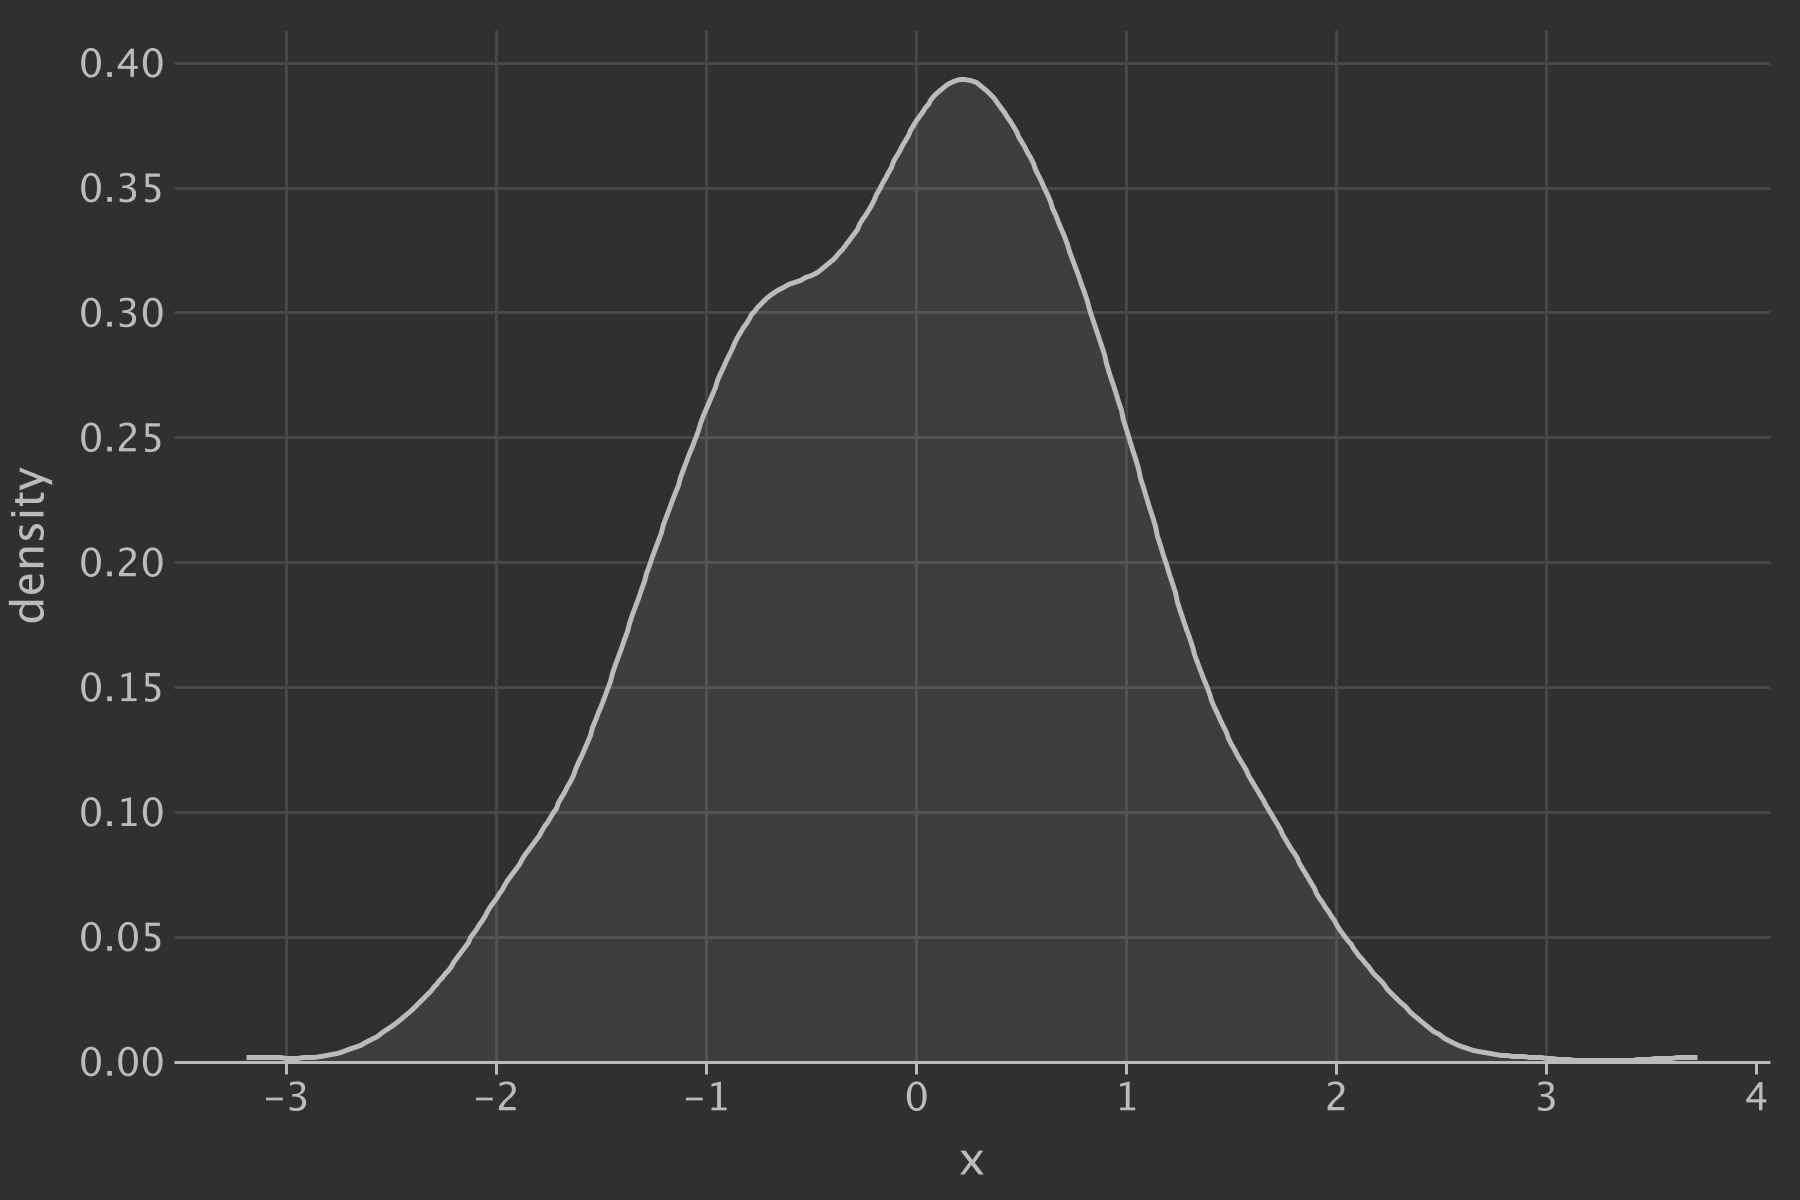
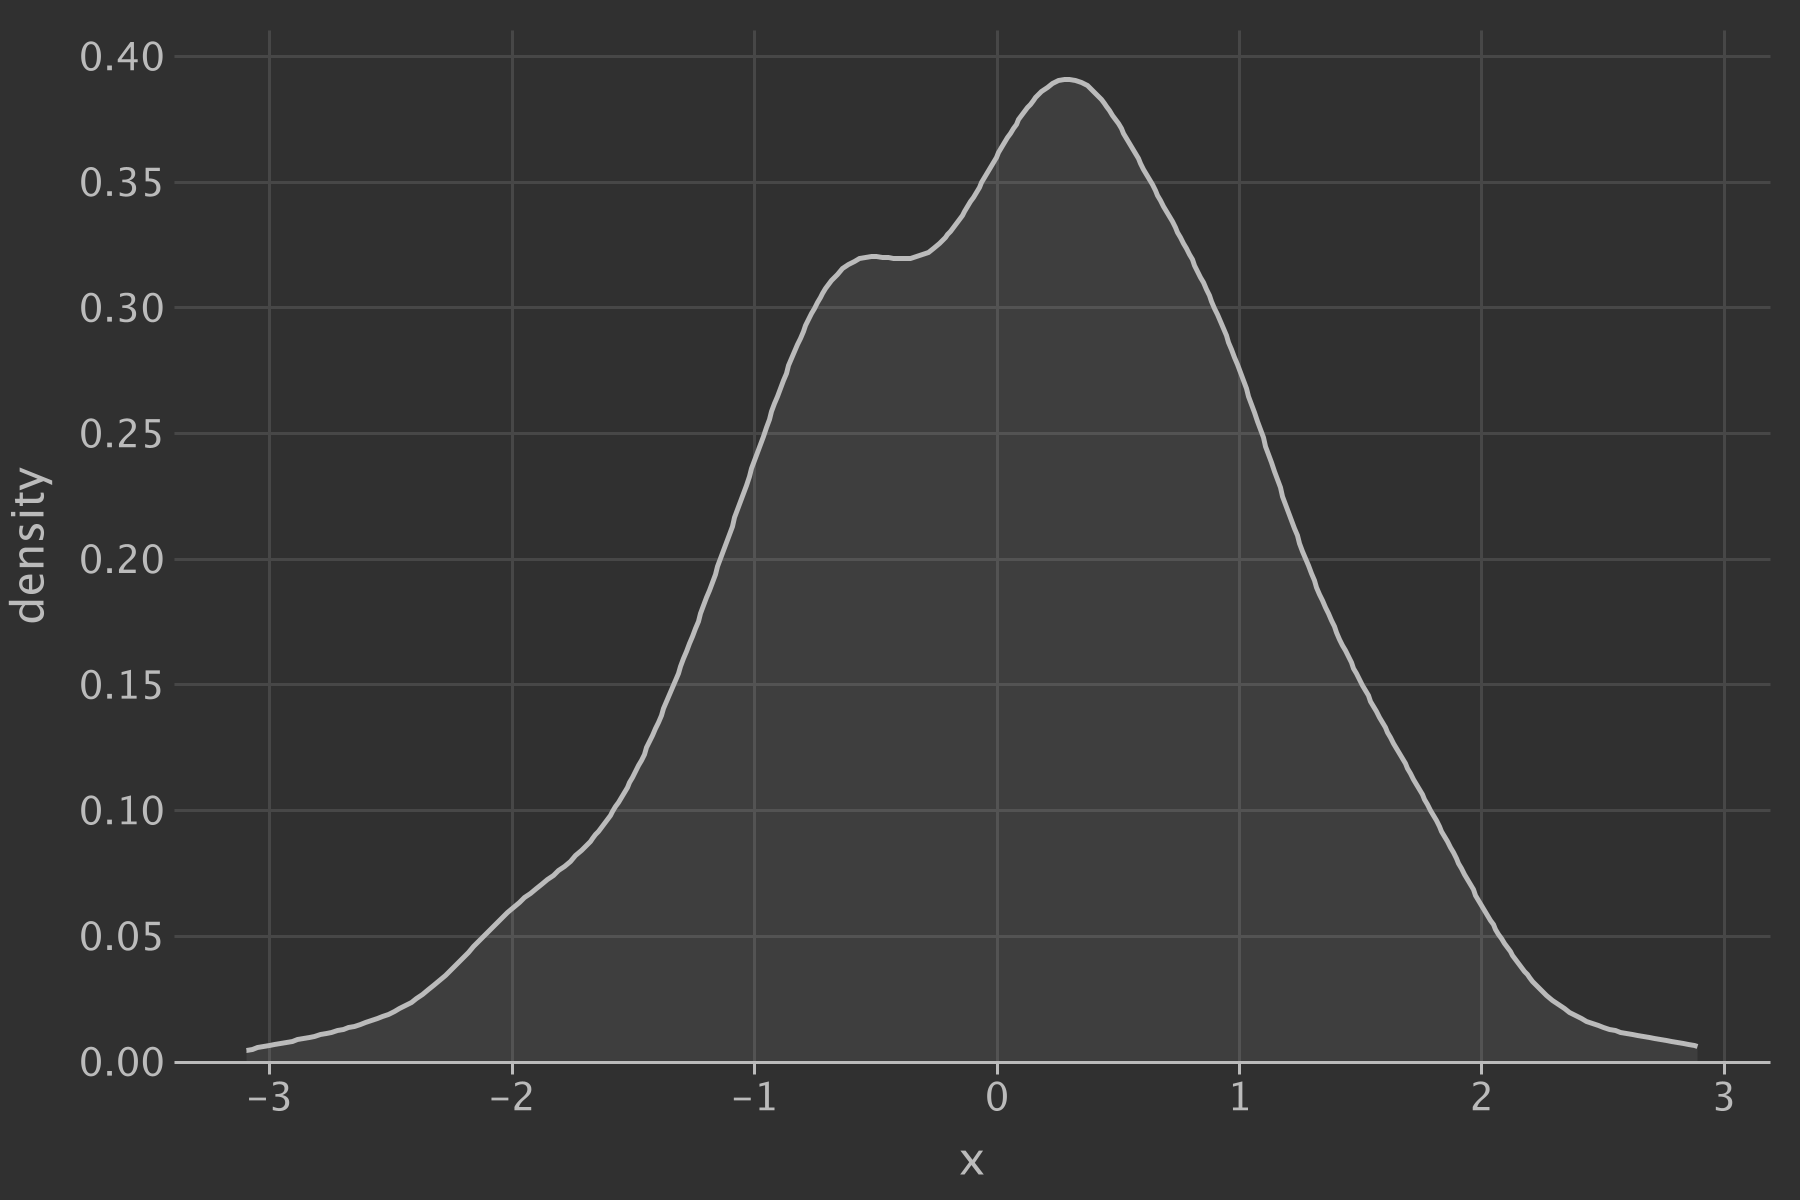
Set random seed

diff --git a/kandy-lets-plot/src/test/kotlin/org/jetbrains/kotlinx/kandy/letsplot/samples/points.kt b/kandy-lets-plot/src/test/kotlin/org/jetbrains/kotlinx/kandy/letsplot/samples/points.kt
@@ -195,9 +195,10 @@ class Points : SampleHelper("points") {
     @Test
     fun points_gradient() {
         // SampleStart
-        val xs = List(100) { kotlin.random.Random.nextDouble(0.0, 10.0) }
-        val ys = List(100) { kotlin.random.Random.nextDouble(0.0, 10.0) }
-        val gradient = List(100) { kotlin.random.Random.nextDouble(0.0, 100.0) }
+        val random = kotlin.random.Random(42)
+        val xs = List(100) { random.nextDouble(0.0, 10.0) }
+        val ys = List(100) { random.nextDouble(0.0, 10.0) }
+        val gradient = List(100) { random.nextDouble(0.0, 100.0) }
         plot {
             points {
                 x(xs)
@@ -298,10 +299,11 @@ class Points : SampleHelper("points") {
     @Test
     fun jittered_points_dataframe() {
         // SampleStart
+        val random = kotlin.random.Random(42)
         val data = dataFrameOf(
             "type" to List(50) { "a" } + List(50) { "b" },
             "value" to List(50) { kotlin.random.Random.nextDouble(0.1, 0.6) } +
-                    List(50) { kotlin.random.Random.nextDouble(-0.5, 0.4) }
+                    List(50) { random.nextDouble(-0.5, 0.4) }
         )
 
         val type = column<String>("type")
@@ -322,9 +324,10 @@ class Points : SampleHelper("points") {
     @Test
     fun jittered_points_collections() {
         // SampleStart
+        val random = kotlin.random.Random(42)
         val type = List(50) { "a" } + List(50) { "b" }
-        val value = List(50) { kotlin.random.Random.nextDouble(0.1, 0.6) } +
-                List(50) { kotlin.random.Random.nextDouble(-0.5, 0.4) }
+        val value = List(50) { random.nextDouble(0.1, 0.6) } +
+                List(50) { random.nextDouble(-0.5, 0.4) }
 
         plot {
             points {

diff --git a/kandy-lets-plot/src/test/kotlin/org/jetbrains/kotlinx/kandy/letsplot/samples/area.kt b/kandy-lets-plot/src/test/kotlin/org/jetbrains/kotlinx/kandy/letsplot/samples/area.kt
@@ -479,7 +479,7 @@ class Area : SampleHelper("area") {
     @Test
     fun density_plot() {
         // SampleStart
-        val random = java.util.Random()
+        val random = java.util.Random(42)
 
         val sample = List(1000) { random.nextGaussian() }
 
